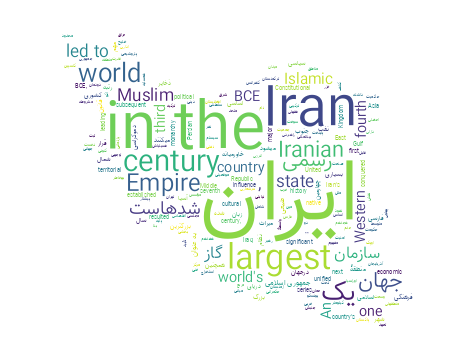
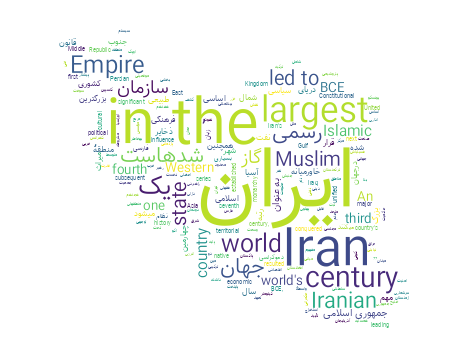
Update wordcloud to 1.8.2.2

Changed region(s): [[0.1176, 0.0616, 0.8529, 0.9244]]

diff --git a/setup.py b/setup.py
@@ -8,7 +8,7 @@ with open(path.join(this_directory, 'README.md'), encoding='utf-8') as f:
 setup(
     name='wordcloud_fa',
     packages=['wordcloud_fa'],
-    version='0.1.9',
+    version='0.1.10',
     license='MIT',
     description='A wrapper for wordcloud module for creating persian (and other rtl languages) word cloud.',
     long_description=long_description,
@@ -16,7 +16,7 @@ setup(
     author='Mohammadreza Alihoseiny',
     author_email='salam@alihoseiny.ir',
     url='https://github.com/alihoseiny/word_cloud_fa',
-    download_url='https://github.com/alihoseiny/word_cloud_fa/archive/V0.1.9.tar.gz',
+    download_url='https://github.com/alihoseiny/word_cloud_fa/archive/V0.1.10.tar.gz',
     keywords=['wordcloud', 'word cloud', 'Farsi', 'persian', 'Iran', 'nlp', 'National Language Processing',
               'text processing', 'data visualization'],
     install_requires=[
@@ -26,7 +26,7 @@ setup(
         'arabic_reshaper>=2.1.3',
         'python-bidi==0.4.2',
         'wordcloud==1.8.2.2',
-        'hazm',
+        'hazm==0.7.0',
     ],
     package_data={'wordcloud_fa': ['stopwords', 'Fonts/font.ttf']},
 )

diff --git a/Examples/mixed-example.py b/Examples/mixed-example.py
@@ -1,10 +1,12 @@
 from wordcloud_fa import WordCloudFa
 
-wodcloud = WordCloudFa(persian_normalize=True, include_numbers=False, background_color="white")
-text = ""
+wodcloud = WordCloudFa(persian_normalize=True, include_numbers=False, background_color="white", stopwords={'[', ']', '[]', '] [', '[ ]', '] .', ')', '('}, no_reshape=True)
+
 with open('mixed-example.txt', 'r') as file:
     text = file.read()
+
 wc = wodcloud.generate(text)
+print(wc.process_text(text))
 image = wc.to_image()
 image.show()
 image.save('mixed-example.png')

diff --git a/CHANGELOG.md b/CHANGELOG.md
@@ -1,3 +1,5 @@
+# 0.1.10
+- Wordcloud version updated.
 # 0.1.9
 - Support for python 3.9.x added.
 # 0.1.6
